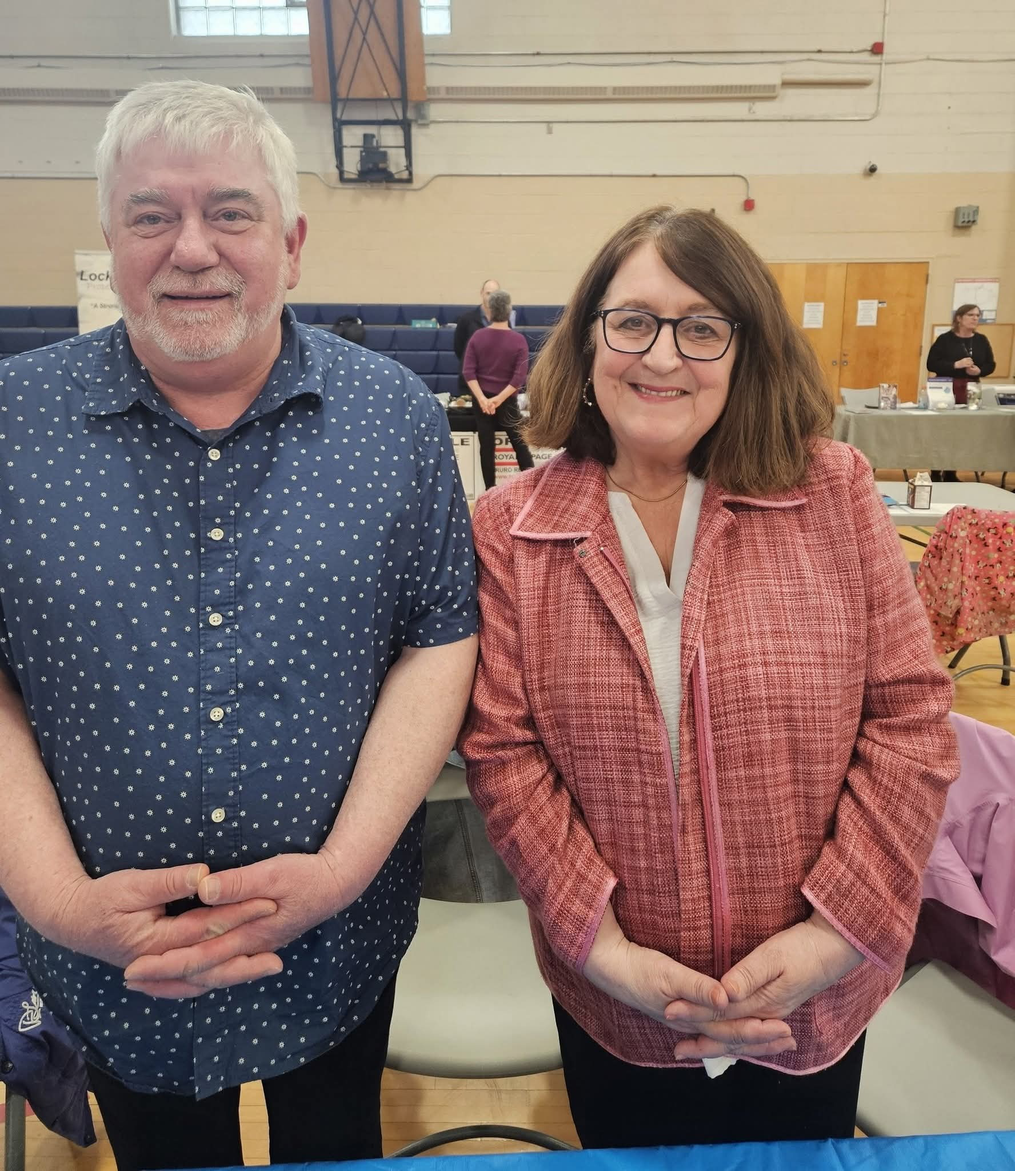
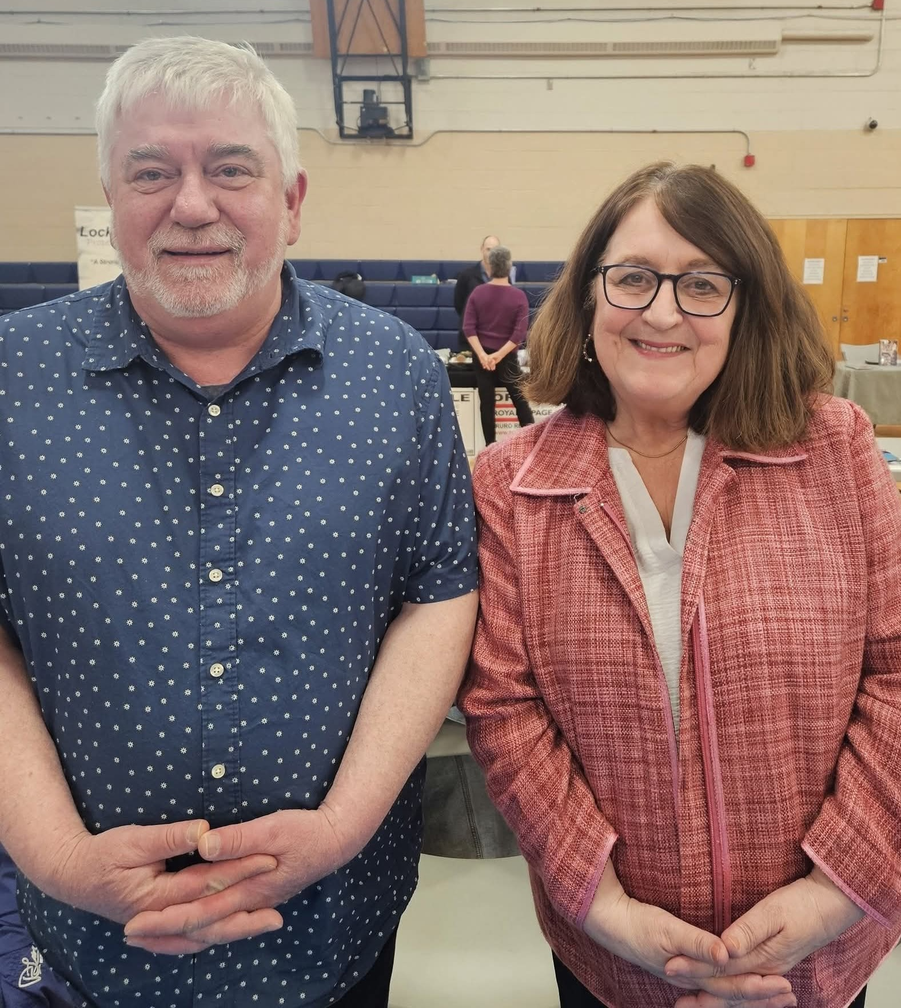
Alongside v2 content and styling updates
Update heading levels, copy edits, contact email, add logo motto,
Facebook SVG icon, nav alignment, and new images.

diff --git a/alongside/theme/templates/base.html b/alongside/theme/templates/base.html
@@ -6,7 +6,7 @@
         <meta content="width=device-width, initial-scale=1" name="viewport" />
 
         <link
-            href="{{ SITEURL }}/theme/css/style.css?v=15"
+            href="{{ SITEURL }}/theme/css/style.css?v=17"
             rel="stylesheet"
             type="text/css"
         />
@@ -58,11 +58,6 @@
                 /></a>
                 <div class="menu">
                     <nav role="navigation" class="navigation-items w-nav-menu">
-                        <a
-                            href="{{ SITEURL }}/"
-                            class="navigation-item button w-nav-link"
-                            >Home</a
-                        >
                         {% for p in pages|sort(attribute='title') %} {% if
                         p.slug in ['why-choose-us', 'services', 'working',
                         'faqs'] %}
@@ -78,6 +73,9 @@
                         'F.A.Q.' }}{% else %}Menu{% endif %}
                     </div>
                 </div>
+                <span class="logo-motto"
+                    >If it's important to you, it's important to us.</span
+                >
             </div>
         </div>
 
@@ -108,12 +106,6 @@
                             CONTACT_ADDRESS.province }}<br />
                             {{ CONTACT_ADDRESS.postal_code }}
                         </p>
-                        <h3>Satellite Office</h3>
-                        <p>
-                            33 Burchell St <br />
-                            Sydney Mines, CB<br />
-                            Nova Scotia<br />
-                        </p>
                     </div>
                     <div class="footer-col">
                         <h3>Contact Us</h3>
@@ -128,6 +120,21 @@
                             <a
                                 href="https://www.facebook.com/Alongside-Live-In-Home-Support-Ltd"
                                 target="_blank"
+                                class="facebook-link"
+                                ><svg
+                                    xmlns="http://www.w3.org/2000/svg"
+                                    width="24"
+                                    height="24"
+                                    viewBox="0 0 24 24"
+                                    fill="currentColor"
+                                    style="
+                                        vertical-align: middle;
+                                        margin-right: 6px;
+                                    "
+                                >
+                                    <path
+                                        d="M24 12.073c0-6.627-5.373-12-12-12s-12 5.373-12 12c0 5.99 4.388 10.954 10.125 11.854v-8.385H7.078v-3.47h3.047V9.43c0-3.007 1.792-4.669 4.533-4.669 1.312 0 2.686.235 2.686.235v2.953H15.83c-1.491 0-1.956.925-1.956 1.874v2.25h3.328l-.532 3.47h-2.796v8.385C19.612 23.027 24 18.062 24 12.073z"
+                                    /></svg
                                 >Follow us on Facebook</a
                             >
                         </p>
@@ -143,7 +150,7 @@
         <div class="section footer">
             <div class="container">
                 <div class="footer-text w-richtext">
-                    <p>&copy; {{ SITENAME }} 2024. All Rights Reserved.</p>
+                    <p>&copy; {{ SITENAME }} 2024-2026. All Rights Reserved.</p>
                 </div>
             </div>
         </div>

diff --git a/alongside/theme/static/css/style.css b/alongside/theme/static/css/style.css
@@ -553,9 +553,22 @@ a.button-link:active {
     opacity: 0.7;
 }
 
+.logo-motto {
+    position: absolute;
+    z-index: 1;
+    bottom: 0;
+    left: 50%;
+    transform: translate(-50%, 100%);
+    font-size: 14px;
+    font-style: italic;
+    color: #666;
+    letter-spacing: 0.5px;
+    white-space: nowrap;
+}
+
 .menu {
     z-index: 0;
-    justify-content: center;
+    justify-content: flex-end;
     align-items: center;
     display: flex;
     position: absolute;
@@ -578,6 +591,9 @@ a.button-link:active {
     align-items: center;
     padding: 30px 50px;
     display: flex;
+    max-width: 1140px;
+    margin-left: auto;
+    margin-right: auto;
 }
 
 .navigation-item {
@@ -748,7 +764,7 @@ a.button-link:active {
 
 .home-content-wrap section,
 .page-content-wrap section {
-    margin-bottom: 80px;
+    margin-bottom: 60px;
 }
 
 .home-content-wrap section p:has(img):not(.header-image) img,
@@ -1048,8 +1064,12 @@ a.button-link:active {
         padding-left: 0;
     }
 
+    .logo-motto {
+        font-size: 13px;
+    }
+
     .navigation {
-        padding: 20px 30px;
+        padding: 20px 30px 40px;
     }
 
     .footer-col {
@@ -1124,6 +1144,11 @@ a.button-link:active {
     .navigation {
         padding-left: 20px;
         padding-right: 20px;
+        padding-bottom: 35px;
+    }
+
+    .logo-motto {
+        font-size: 12px;
     }
 
     .menu-button,

diff --git a/alongside/pelicanconf.py b/alongside/pelicanconf.py
@@ -30,7 +30,7 @@ EXTRA_PATH_METADATA = {
 }
 
 # Custom variables for Alongside updates
-HIRING_NEEDS_TEXT = "We are currently looking for compassionate caregivers in the Annapolis Valley area."
+HIRING_NEEDS_TEXT = "We are currently looking for compassionate caregivers."
 SHOW_HIRING_BANNER = True
 
 # Contact Info (Somerset as main office per STEP5.md)
@@ -41,7 +41,7 @@ CONTACT_ADDRESS = {
     "postal_code": "B0P 1E0",
 }
 CONTACT_PHONE = "(902) 578-9077"
-CONTACT_EMAIL = "info@alongsidens.ca"
+CONTACT_EMAIL = "alongsidehomecare@gmail.com"
 
 # Social links
 SOCIAL = (("Facebook", "https://www.facebook.com/Alongside-Live-In-Home-Support-Ltd"),)

diff --git a/alongside/content/pages/specialized.md b/alongside/content/pages/specialized.md
@@ -6,22 +6,22 @@ subtitle: Providing compassionate, expert care tailored to the unique health and
 
 <section markdown="1">
 
-Dementia Care
+### Dementia Care
 
  - All of Alongside management & staff are knowledgeable at a practical, emotional, and personal level with dementia care
  - We promise our clients to be cared for with respect and dignity, while balancing independence that’s safe for the individual
 
-Respite Care
+### Respite Care
 
  - Providing care for the caregiver, short or long term
  - Alongside can provide the support and expertise for you to do so
 
-Recovery Care
+### Recovery Care
 
  - In-home support post surgery so healing can take place in the therapeutic comforts of home
  - We can support seniors healing journey whether it be a for weeks or a few months, offer peace of mind to family and friends
 
-Palliative Care
+### Palliative Care
 
  - We provide compassionate caregivers who are committed to coming alongside your family and your loved one in their end of life journey
  - Our caregivers are experienced to provide compassionate dedicated care and comfort measures 

diff --git a/alongside/content/pages/support.md b/alongside/content/pages/support.md
@@ -6,7 +6,7 @@ subtitle: Comprehensive support within the comfort of your home, ensuring a safe
 
 <section markdown="1">
 
-## Personal Care & Hygiene
+### Personal Care & Hygiene
 
 We provide respectful assistance with personal care tasks to help our clients feel their best every day.
 
@@ -19,7 +19,7 @@ We provide respectful assistance with personal care tasks to help our clients fe
 
 <section markdown="1">
 
-## Light Housekeeping
+### Light Housekeeping
 
 Maintaining a clean and organized home is essential for safety and peace of mind. Our caregivers assist with:
 
@@ -32,7 +32,7 @@ Maintaining a clean and organized home is essential for safety and peace of mind
 
 <section markdown="1">
 
-## Medication & Communication
+### Medication & Communication
 
 We ensure that medications are taken correctly and that family members remain fully informed about their loved one's well-being.
 

diff --git a/alongside/content/pages/activities.md b/alongside/content/pages/activities.md
@@ -6,7 +6,7 @@ subtitle: Supporting independence and quality of life through personalized daily
 
 <section markdown="1">
 
-## Companionship & Social Support
+### Companionship & Social Support
 
 - **Matching Caregivers**: We match clients and caregivers to foster a joyful and meaningful interpersonal relationship.
 - **Social Visits**: Our caregivers support and partake in social visits and community outings where possible.
@@ -17,7 +17,7 @@ subtitle: Supporting independence and quality of life through personalized daily
 
 <section markdown="1">
 
-## Nutritional Care & Cooking
+### Nutritional Care & Cooking
 
 We recognize the importance of our clients' diets in supporting wellness and comfort. We support personal menu choices and can cook for an array of specialized diets, including diabetes-friendly, gluten-free, and specific caloric needs.
 

diff --git a/alongside/content/pages/index.md b/alongside/content/pages/index.md
@@ -23,7 +23,7 @@ We offer compassionate live-in home support resulting in comfort, enhanced quali
 
 ## Services
 
-We start with a free consultation, in home up to 1 hour. We recognize the need for a personal care plan, with input from the senior and their loved ones. We offer compassionate "live-in" caregivers on a weekly or biweekly basis to come "alongside" seniors in their home, with the consistency of no more than 3 caregivers per household.
+We start with a free in-home consultation. We recognize the need for a personal care plan, with input from the senior and their loved ones. We offer compassionate "live-in" caregivers on a weekly or biweekly basis to come "alongside" seniors in their home, with the consistency of no more than 3 caregivers per household.
 
 <a href="{filename}/pages/services.md" class="button-link">Learn More</a>
 

diff --git a/alongside/content/pages/working.md b/alongside/content/pages/working.md
@@ -22,7 +22,7 @@ We seek integrity and commitment first and foremost. Patience is a virtue and a 
 > 
 > 1. **Prepare documents**: Resume, CPR/First Aid certification, and 3 professional references.
 > 2. **Include Phone Number**: Please ensure you include a valid phone number for a screening call.
-> 3. **Submit**: Email documents to [info@alongsidens.ca](mailto:info@alongsidens.ca).
+> 3. **Submit**: Email documents to [alongsidehomecare@gmail.com](mailto:alongsidehomecare+jobs@gmail.com)
 >
 > *Note: Successful applicants require a clean Criminal Record and Vulnerable Sector Check.*
 
